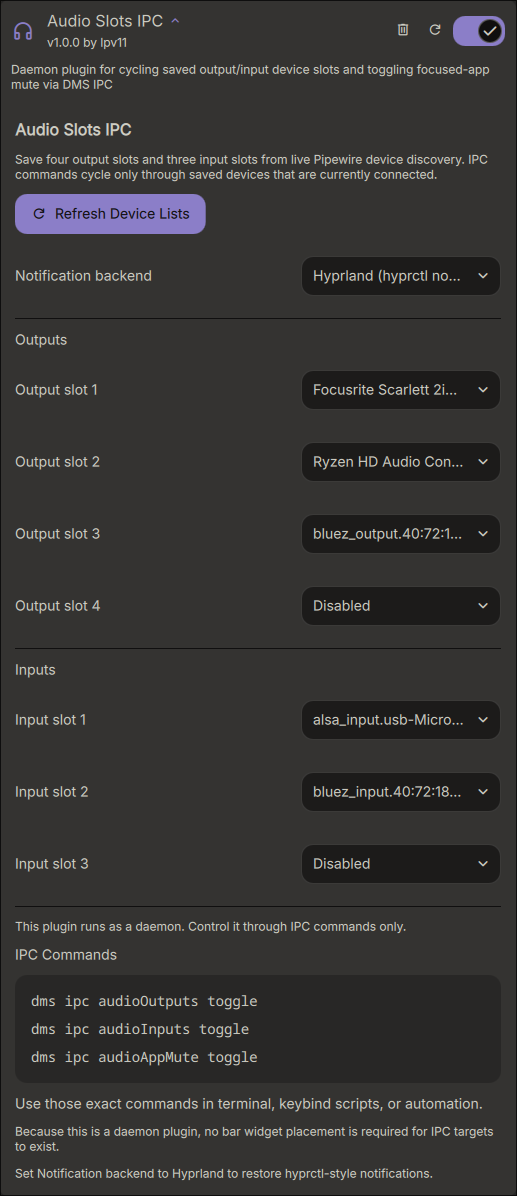
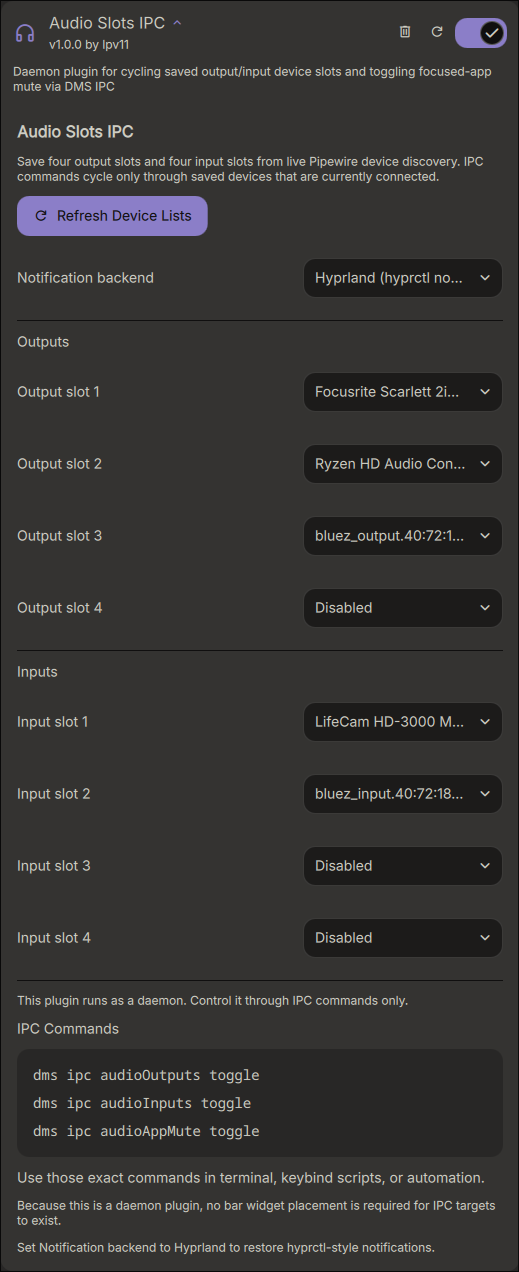
Fix input device detection and refresh screenshot

diff --git a/AudioSlotsSettings.qml b/AudioSlotsSettings.qml
@@ -38,7 +38,7 @@ PluginSettings {
     function refreshDevices() {
         const allNodes = Array.from(Pipewire.nodes.values);
         const outputs = allNodes.filter(node => node.audio && node.isSink && !node.isStream).map(toOption);
-        const inputs = allNodes.filter(node => node.audio && node.isSource && !node.isStream && !(node.name || "").endsWith(".monitor")).map(toOption);
+        const inputs = allNodes.filter(node => node.audio && !node.isSink && !node.isStream && !(node.name || "").endsWith(".monitor")).map(toOption);
 
         const sortedOutputs = sortByLabel(uniqueByValue(outputs));
         const sortedInputs = sortByLabel(uniqueByValue(inputs));

diff --git a/AudioSlotsDaemon.qml b/AudioSlotsDaemon.qml
@@ -67,7 +67,7 @@ PluginComponent {
 
     function inputCandidates() {
         const names = slotNames("input", 4);
-        const nodes = Array.from(Pipewire.nodes.values).filter(node => node.audio && node.isSource && !node.isStream && !(node.name || "").endsWith(".monitor"));
+        const nodes = Array.from(Pipewire.nodes.values).filter(node => node.audio && !node.isSink && !node.isStream && !(node.name || "").endsWith(".monitor"));
         return names.map(name => nodes.find(n => n.name === name)).filter(Boolean);
     }
 
